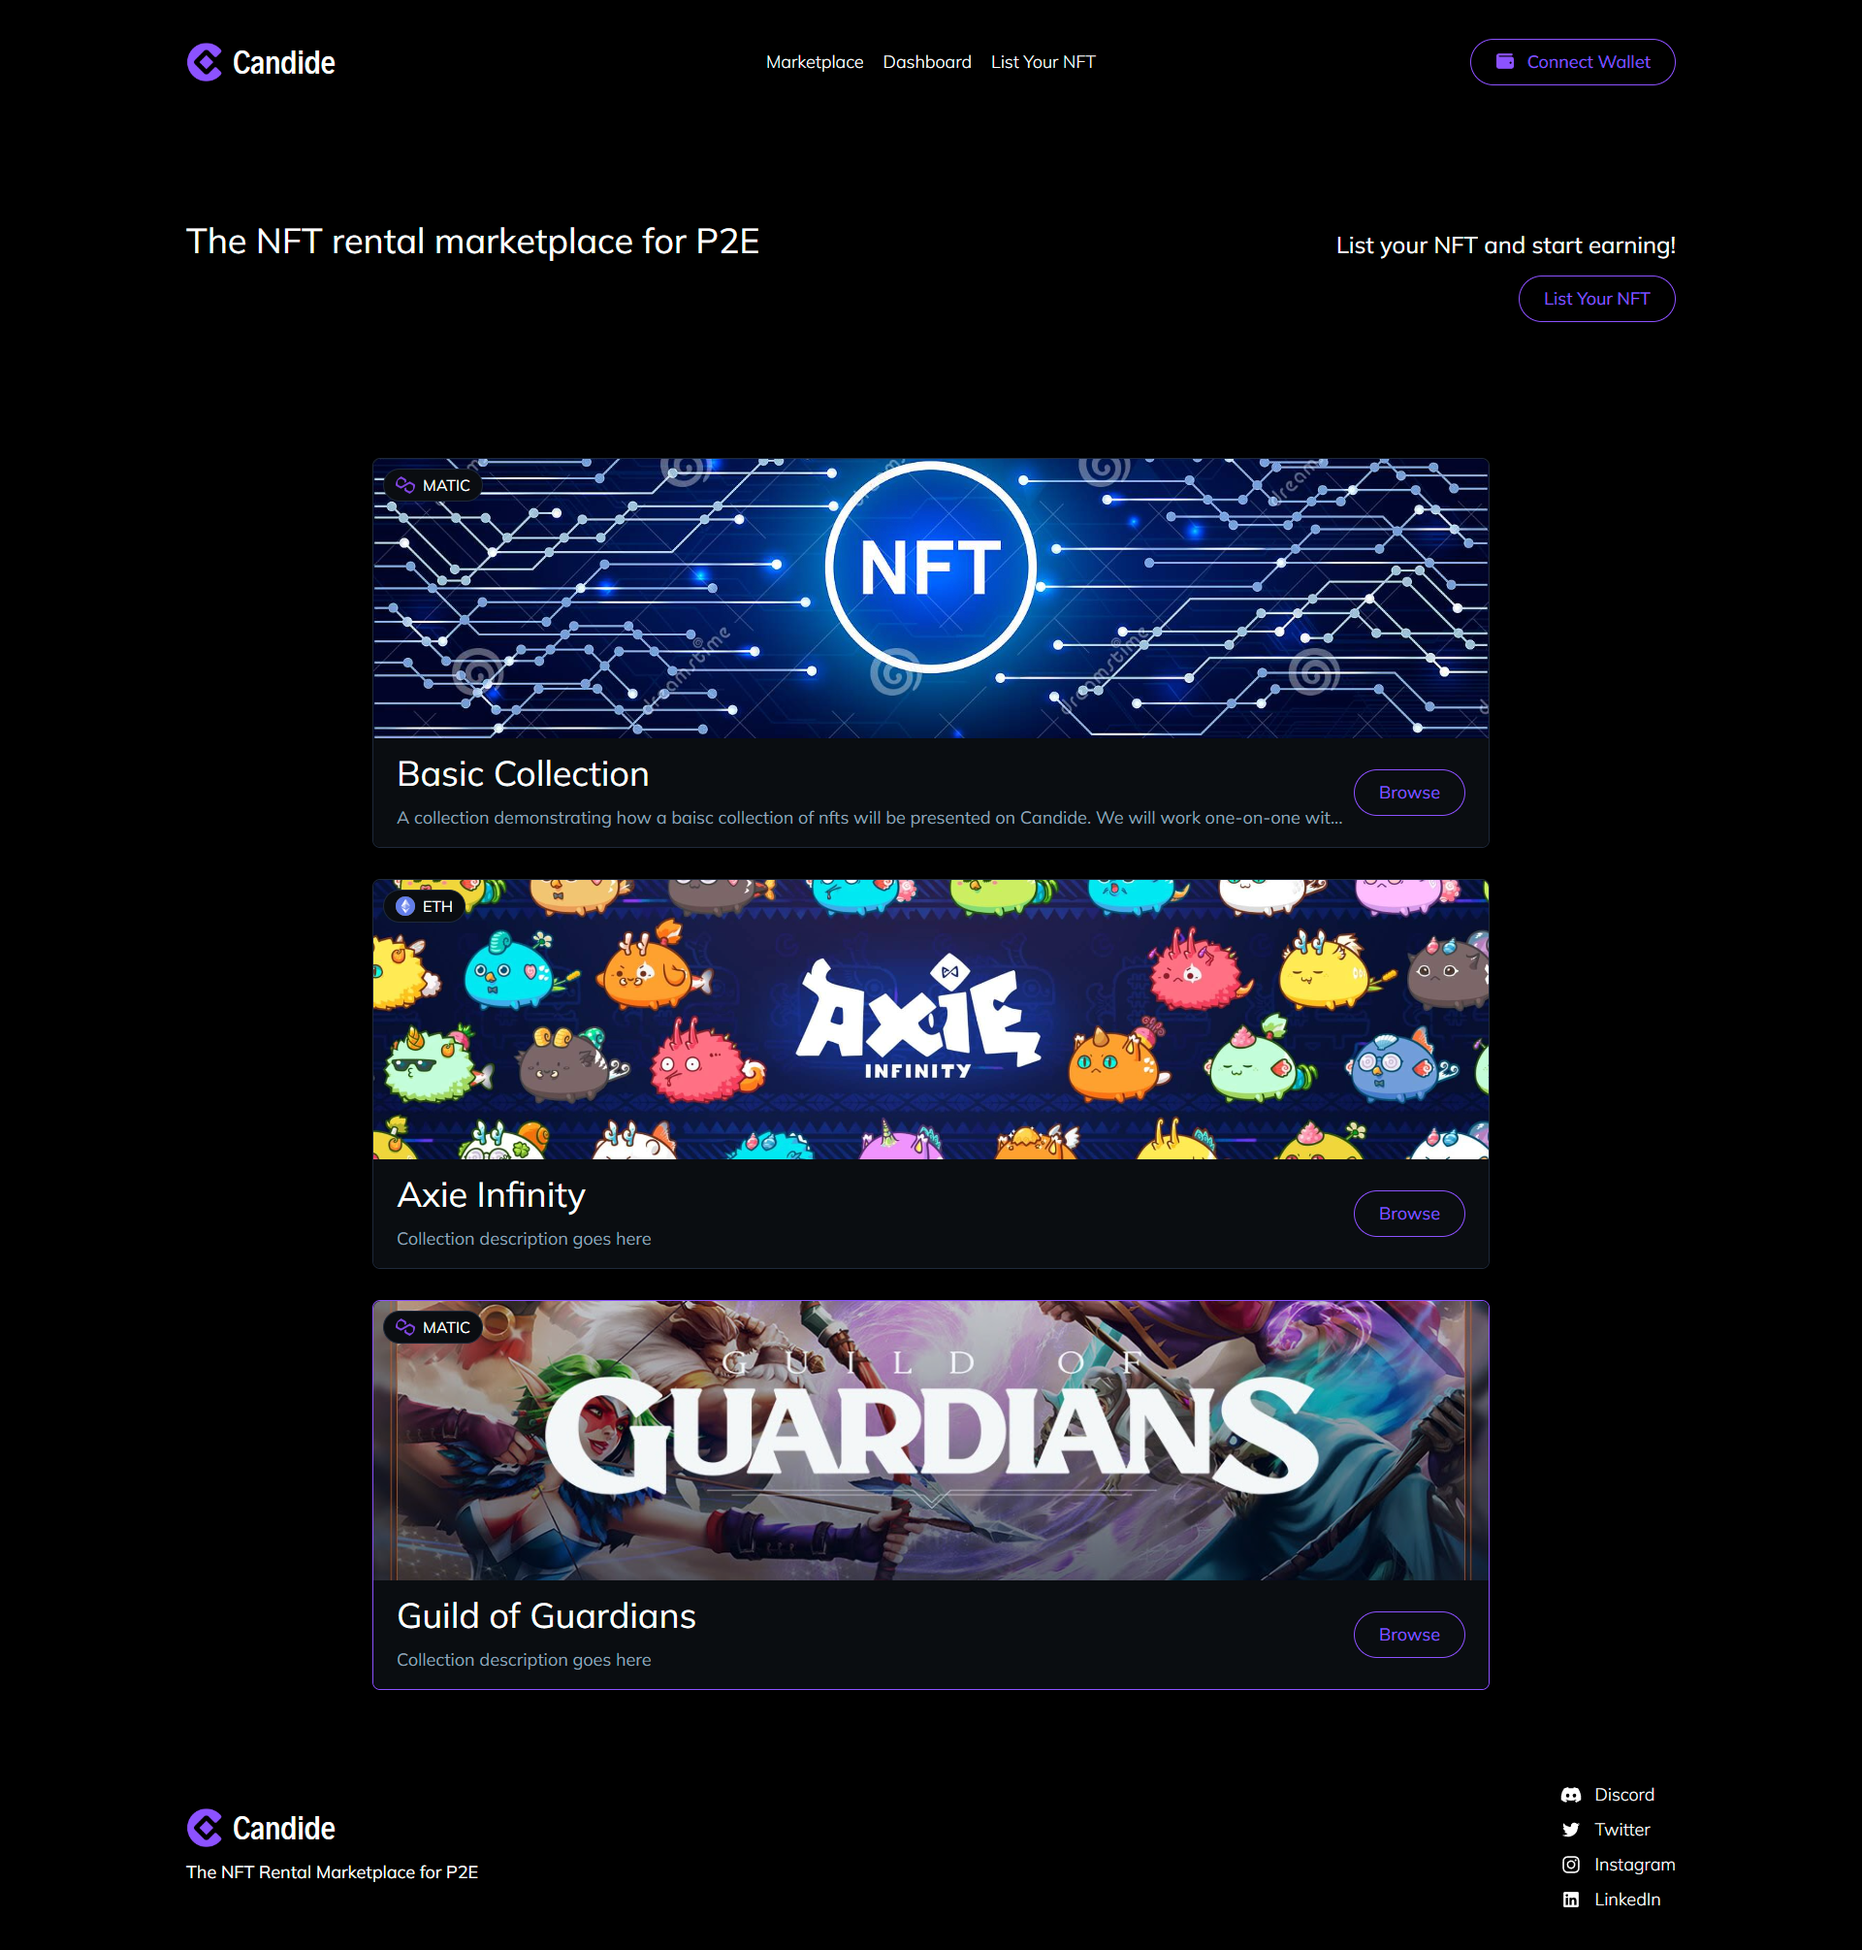
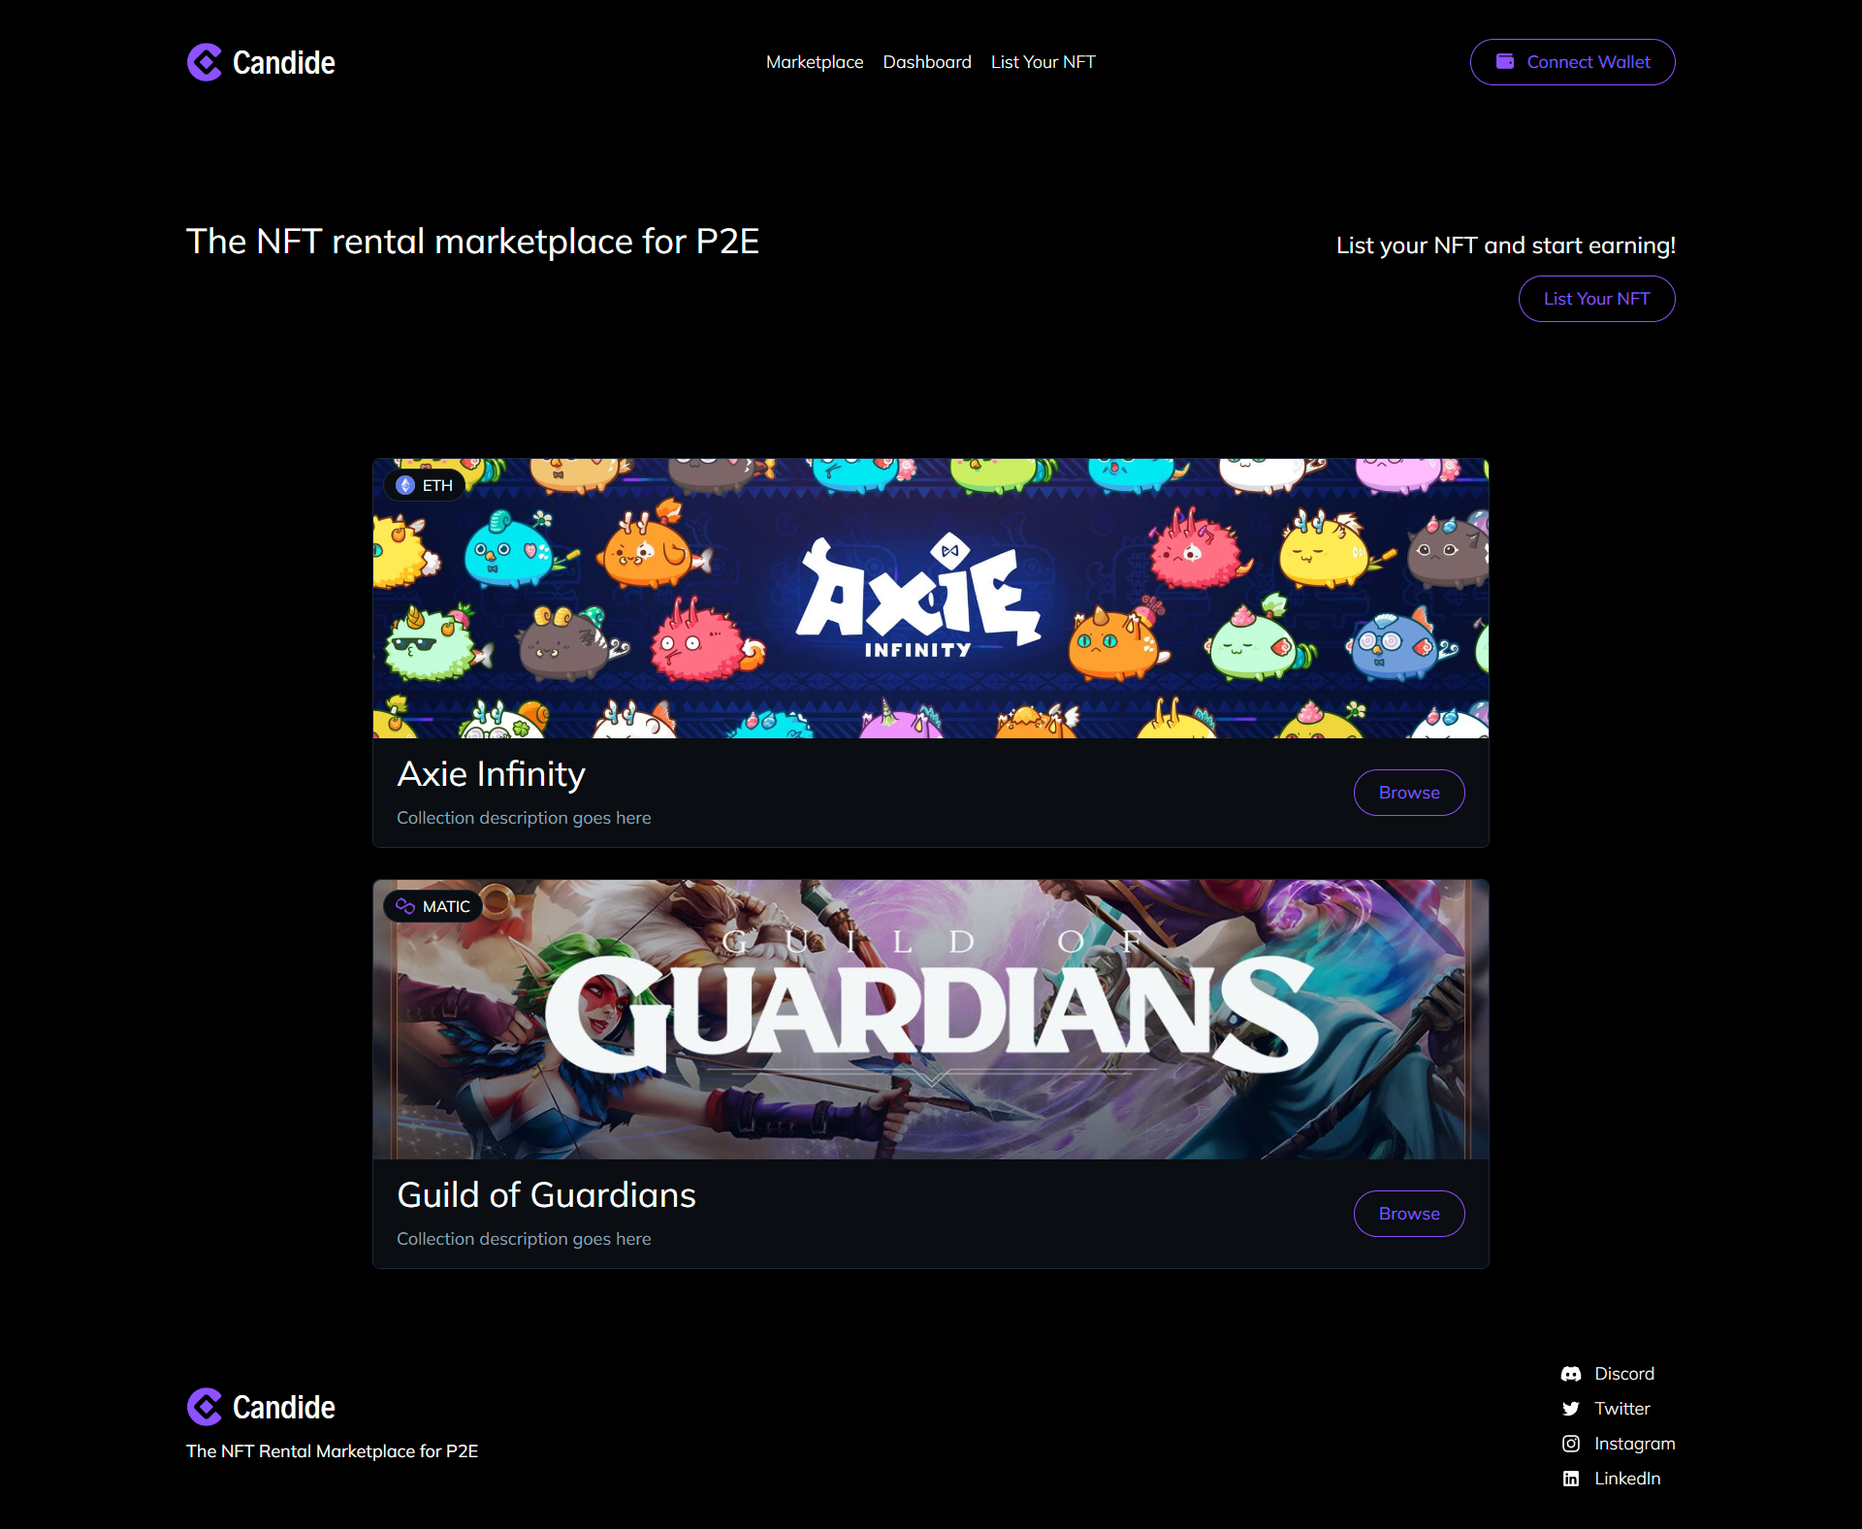
add new gifs, add text content, add navigation

diff --git a/README.md b/README.md
@@ -1,39 +1,101 @@
 # <img align="left" alt="Candide" width="36px" src="./assets/logo.png" />Candide Marketplace
 
-We're building an NFT rental marketplace for P2E games
+We're building an NFT rental marketplace for P2E games 🕹
 
-### <a href="https://marketplace.candide.site/">marketplace.candide.site</a>
+#### 🚨 The marketplace is now in beta testing! 🚨
 
-<a href="https://candide.site/" target="_blank">
-<img src="./assets/candide-marketplace.png" alt="candide landing page screen shot" width="400px" />
-</a>
+### <a href="https://marketplace.candide.site/">marketplace.candide.site</a> ⚠ site under active development ⚠
 
-## Site Details
+---
 
-- ???
-  <br>
+## Table of Contents
 
-<img src="./assets/containment.gif" width="500px" />
+<details open>
+<summary>Navigation</summary>
+
+- [About Candide](#about-candide)
+- [The Front-end](#the-front-end)
+  - [Technologies Used](#technologies-used)
+  - [My Role](#my-role)
+- [Features](#features-alpha-version)
+  - [NFT Card & Details Page](#nft-card--details-page)
+  - [Dynamic Popover Screen Containment](#dynamic-popover-screen-containment)
+  - [NFT Sorting and Filtering](#nft-sorting-and-filtering)
+
+</details>
+
+---
 
 ## About Candide
 
-#### We are a small, international, team that is passionate about providing value to p2e players.
+### We are a small, international, team that is passionate about providing value to p2e players.
 
 The Candide marketplace will allow users to rent p2e NFTs for their favorite NFT games.
 
 - When renting an NFT you gain access to its utility without risking your capital
-- When lending an NFT you put it to work generating passing income
-  <br>
+- When lending an NFT you put it to work generating passive income
   <br>
 
-### Come Say Hello
-
-<br>
+### Come Say Hello 👋
 
 [<img align="left" alt="Candide | Discord" width="35px" src="https://s3-storage.textopus.nl/wp-content/uploads/2015/05/18050104/Discord-icon-270x270.png" />][discord]
 [<img align="left" alt="Candide | LinkedIn" width="35px" src="https://algomine.pl/wp-content/uploads/LinkedIn-Icon-380x380.png" />][linkedin]
 [<img align="left" alt="Candide | Twitter" width="35px" src="https://www.seekpng.com/png/full/5-54303_twitter-introduces-a-new-app-for-windows-twitter.png" />][twitter]
 [<img align="left" alt="Candide | Instagram" width="35px" src="https://upload.wikimedia.org/wikipedia/commons/a/a5/Instagram_icon.png" />][instagram]
+<br>
+<br>
+
+---
+
+## The Front-end
+
+<!-- #### 🚨 The following images demonstrate features & functionality I built for the site. These demos are populated with static data and assets used in development and do not accurately represent the current state of the project. 🚨 -->
+
+### Technologies Used:
+
+- Nuxt/Vue 2
+- Tailwind.css
+- Assorted utility libraries (date-fns, js-cookie, fontawesome, etc.)
+- **No front-end component libraries**
+
+### My Role
+
+I fill the role of sole designer & front-end engineer. I built the entire UI from scratch using no component libraries. All the components have been made from scratch using Tailwind.css.
+
+<!-- <a href="https://marketplace.candide.site/" target="_blank">
+<img src="./assets/candide-marketplace.png" alt="candide landing page screen shot" width="500px" />
+</a> -->
+
+## Features (alpha version)
+
+#### 🚨 The following images demonstrate features & functionality I built for the site. These demos are populated with static data and assets used in development and do not accurately represent the current state of the project. 🚨
+
+### NFT Card & Details Page
+
+All the components are dynamic and reusable. Each axie's stats and traits in the popover and on the details page are dynamically selected and styled based on the data passed into the components.
+
+<img src="./assets/axie-display.gif" />
+<br>
+
+### Dynamic Popover Screen Containment
+
+1. The popover is "staged" for display when the mouse enters the
+   border of the card component. - `display: none;` is swapted for `display: flex;` & `opacity: 0;`
+
+2. At this point `getBoundingClientRect()` is used to get the appropriate coordinates of the popover and the containing window.
+
+3. If the coordinates of the popover excede the limit of the window then the position of the popover is altered to be within the appropriate boundaries.
+
+4. The "i" icon is hovered and the popover transitions into view using `opacity` and `scale`
+
+5. Reverse steps for fade-out and "unstaging" of the popover.
+
+<img src="./assets/containment.gif" width="600px" />
+<br>
+
+### NFT Sorting and Filtering
+
+<img src="./assets/axie-filters.gif" />
 
 [twitter]: https://twitter.com/CandideNft
 [instagram]: https://www.instagram.com/candidenft/
